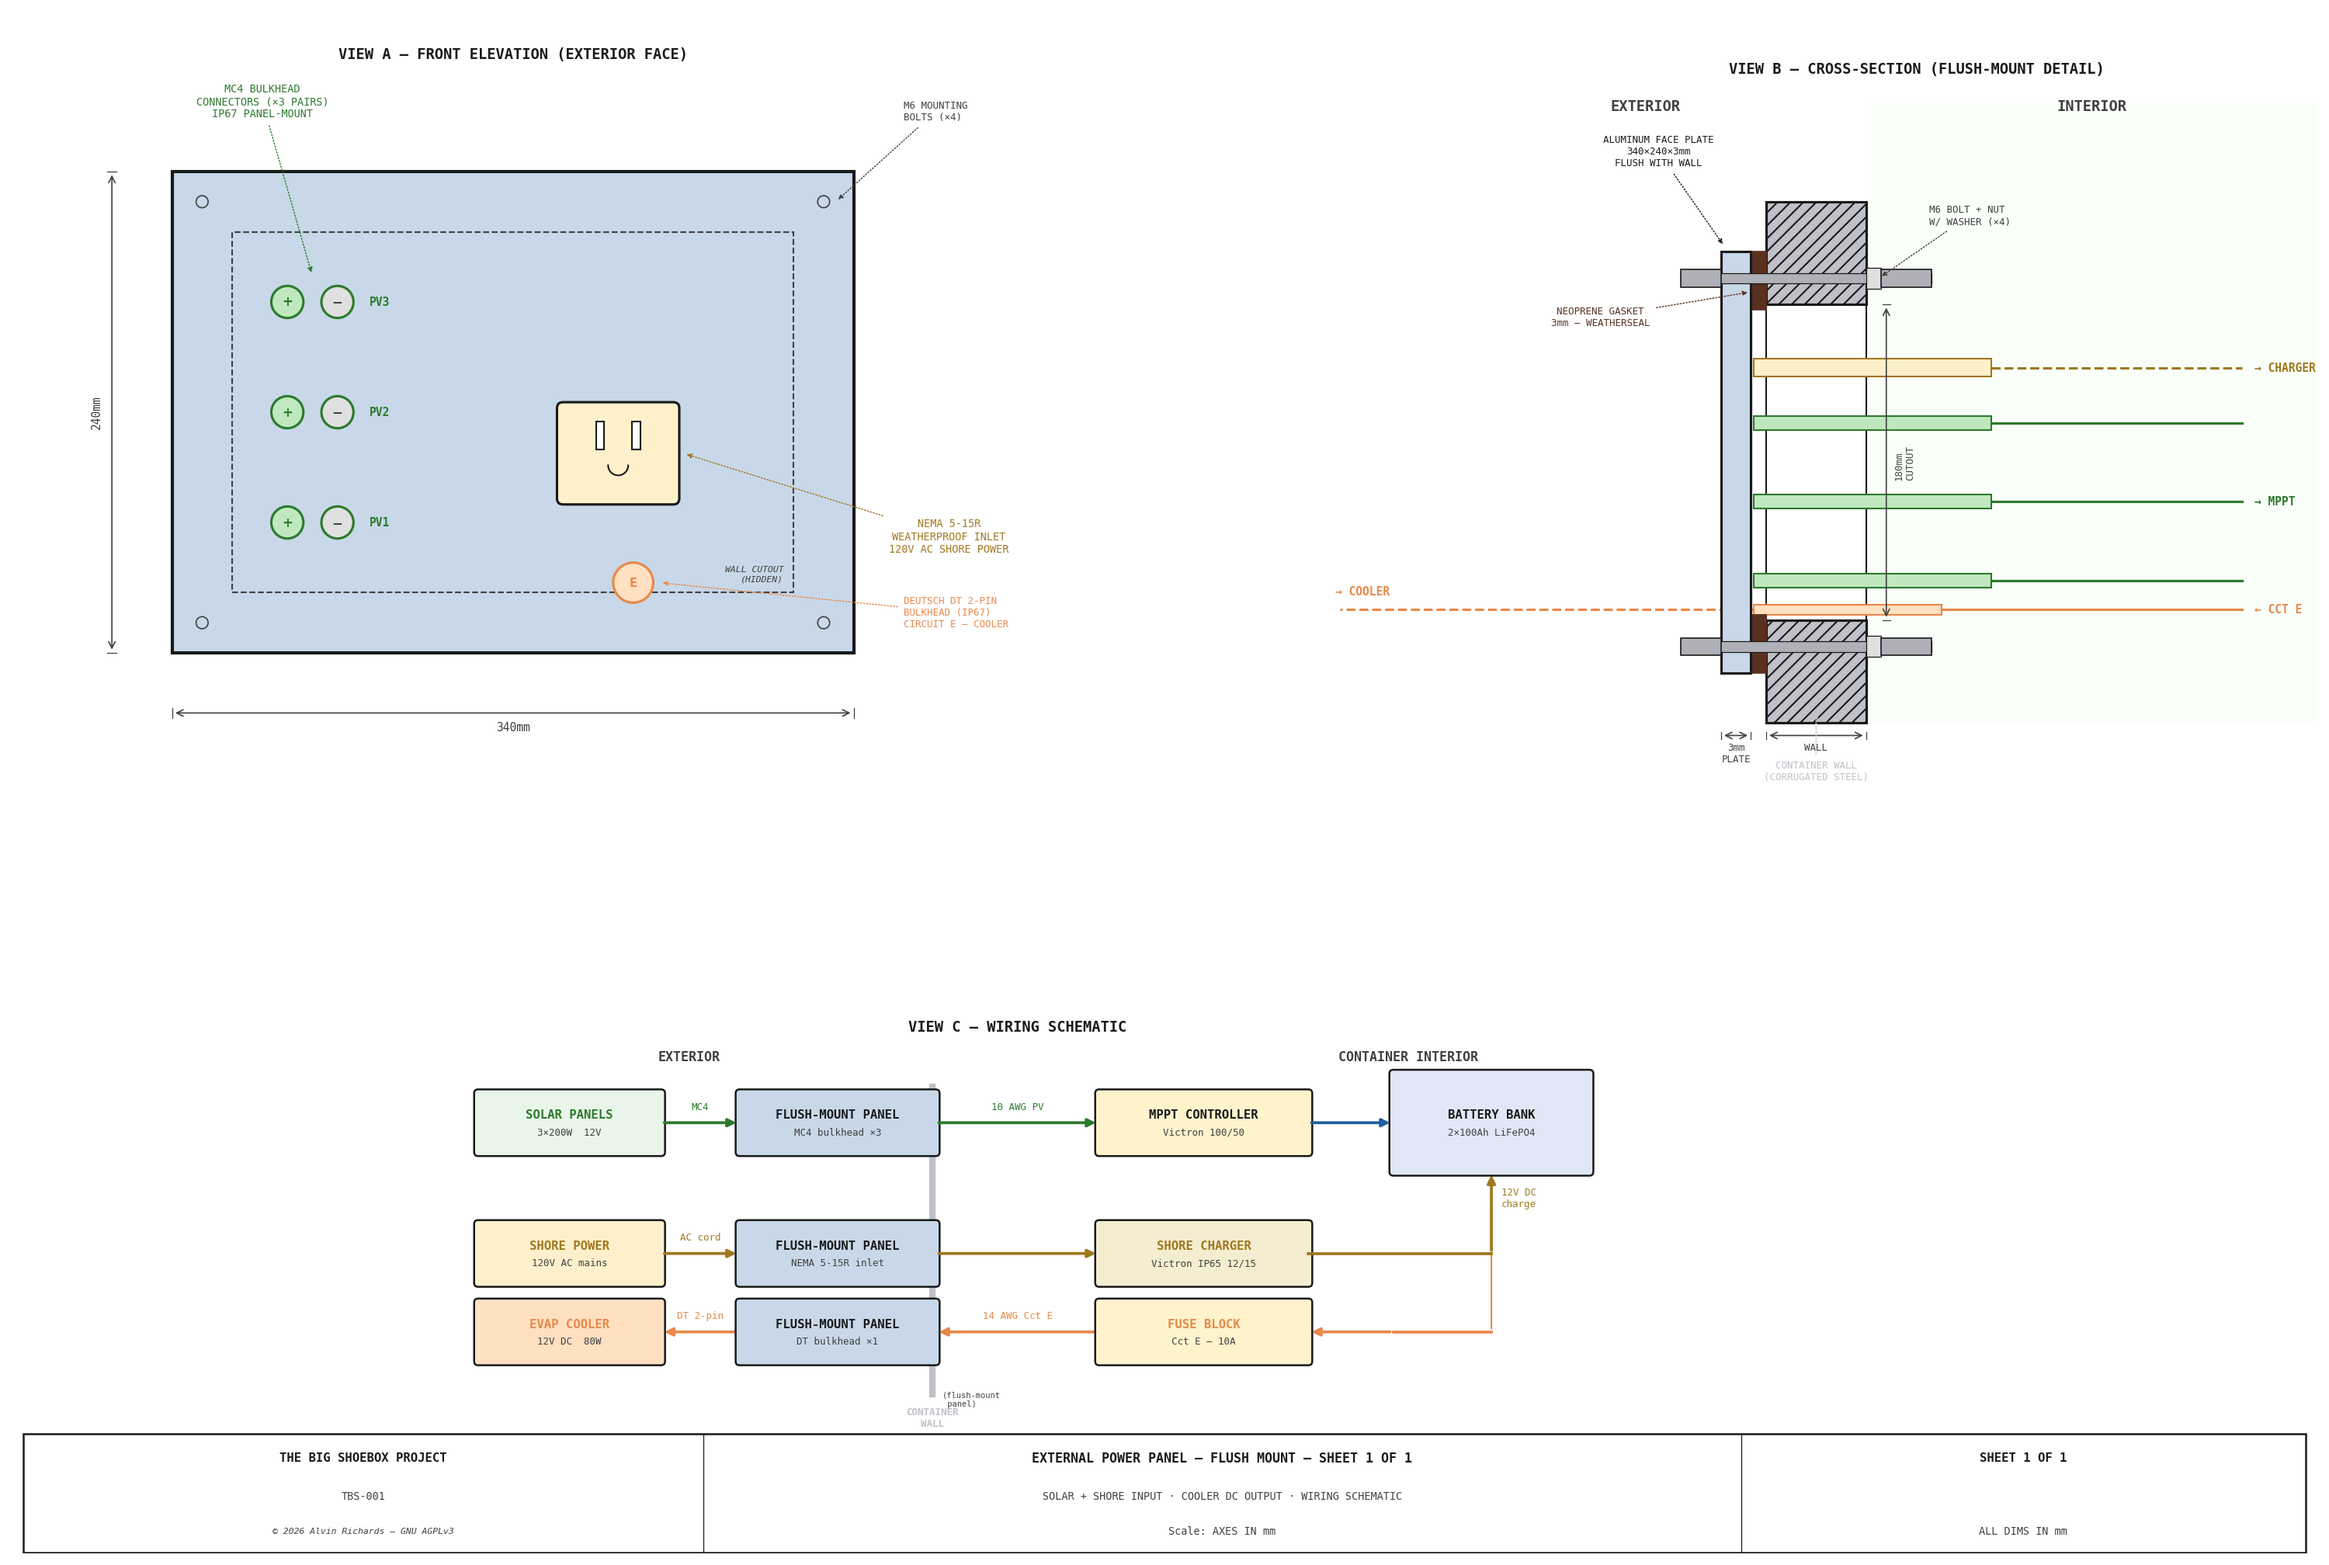
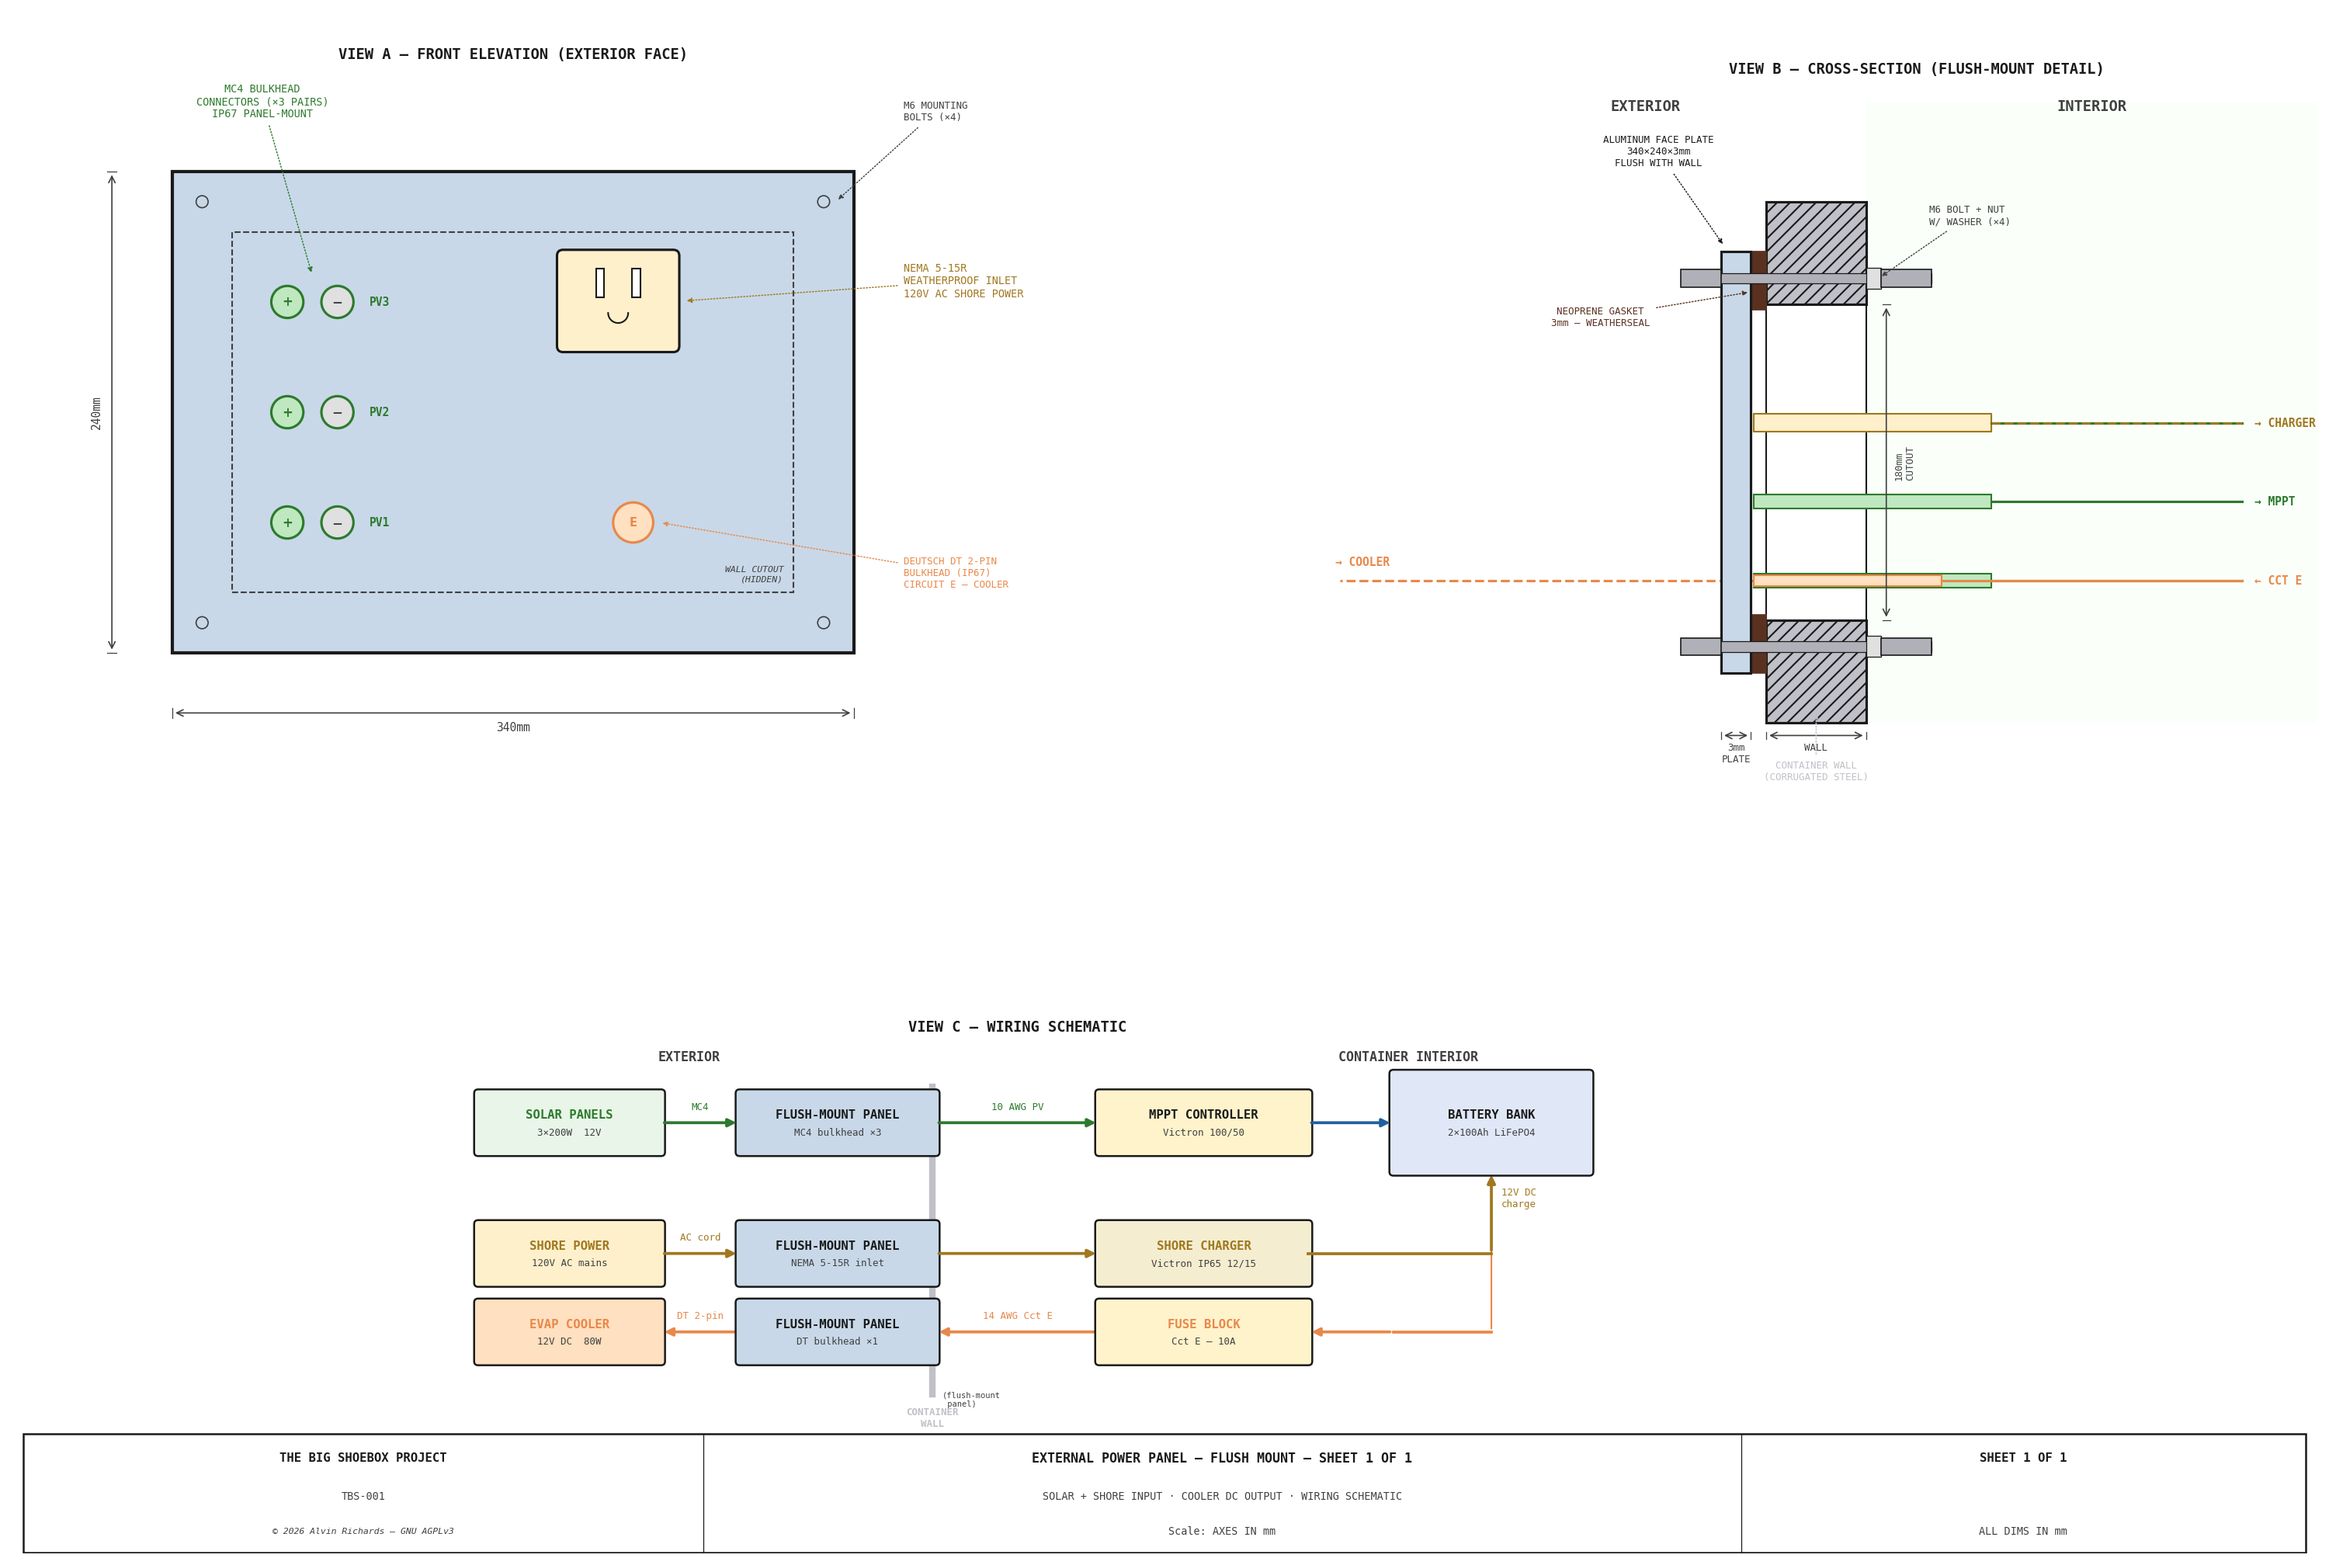
Power panel diagram: align NEMA with PV3, DT connector with PV1

diff --git a/generate_power_panel_diagram.py b/generate_power_panel_diagram.py
@@ -66,13 +66,13 @@ MC4_DEPTH = 40            # MC4 bulkhead protrusion behind plate (mm)
 NEMA_W   = 55             # NEMA receptacle width
 NEMA_H   = 45             # NEMA receptacle height
 NEMA_X   = 195            # NEMA left edge from panel left edge
-NEMA_Y   = 77             # NEMA bottom edge from panel bottom edge
+NEMA_Y   = 153            # NEMA bottom edge — center aligns with PV3 (175mm)
 NEMA_DEPTH = 45           # NEMA body protrusion behind plate (mm)
 
 # Deutsch DT 2-pin bulkhead (Circuit E — evap cooler DC output)
 DT_R     = 10             # connector body radius (mm)
 DT_X     = 230            # center X from panel left edge
-DT_Y     = 35             # center Y from panel bottom edge
+DT_Y     = 65             # center Y — aligns with PV1 (65mm)
 DT_DEPTH = 30             # body protrusion behind plate (mm)
 C_DT     = "#E8884A"      # orange — matches pump/cooler circuit color
 
@@ -183,12 +183,12 @@ def draw_sheet1():
            fs=6.5, color=C_MC4, ha="center", arrow_style="-|>", font=FONT)
 
     leader(ax_a, sx(NEMA_X + NEMA_W + 5), sy(NEMA_Y + NEMA_H / 2),
-           sx(nema_cx + NEMA_W * 3), sy(NEMA_Y - 10),
+           sx(PLATE_W + 25), sy(NEMA_Y + NEMA_H / 2 + 10),
            "NEMA 5-15R\nWEATHERPROOF INLET\n120V AC SHORE POWER",
-           fs=6.5, color=C_AC, ha="center", va="top", arrow_style="-|>", font=FONT)
+           fs=6.5, color=C_AC, ha="left", arrow_style="-|>", font=FONT)
 
     leader(ax_a, sx(DT_X + DT_R + 3), sy(DT_Y),
-           sx(PLATE_W + 25), sy(DT_Y - 15),
+           sx(PLATE_W + 25), sy(DT_Y - 25),
            "DEUTSCH DT 2-PIN\nBULKHEAD (IP67)\nCIRCUIT E — COOLER",
            fs=6, color=C_DT, ha="left", arrow_style="-|>", font=FONT)
 
@@ -300,8 +300,8 @@ def draw_sheet1():
                   [by(cy), by(cy)],
                   color=C_MC4, lw=1.5, zorder=5)
 
-    # NEMA body through cutout
-    nema_cy = cut_bot + mc4_spacing * 3.2
+    # NEMA body through cutout — aligned with PV3
+    nema_cy = cut_bot + mc4_spacing * 2.5
     draw_rect(ax_b, bx(wall_x - 5), by(nema_cy - 5 * mm_v),
               bx(wall_thick + conn_depth + 5), by(10 * mm_v),
               fc=C_NEMA, color=C_AC, lw=1.0, zorder=4)
@@ -310,8 +310,8 @@ def draw_sheet1():
               [by(nema_cy), by(nema_cy)],
               color=C_AC, lw=1.5, ls="--", zorder=5)
 
-    # Deutsch DT body through cutout (Circuit E — cooler DC output)
-    dt_cy = cut_bot + 6 * mm_v
+    # Deutsch DT body through cutout (Circuit E — cooler DC output) — aligned with PV1
+    dt_cy = cut_bot + mc4_spacing * 0.5
     draw_rect(ax_b, bx(wall_x - 5), by(dt_cy - 3 * mm_v),
               bx(wall_thick + DT_DEPTH + 5), by(6 * mm_v),
               fc="#FFE0C0", color=C_DT, lw=1.0, zorder=4)
